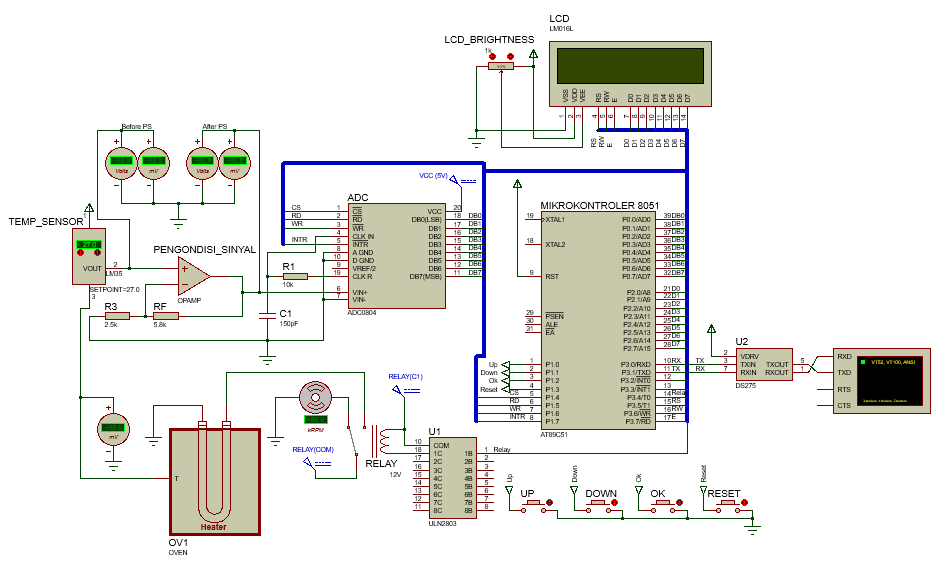
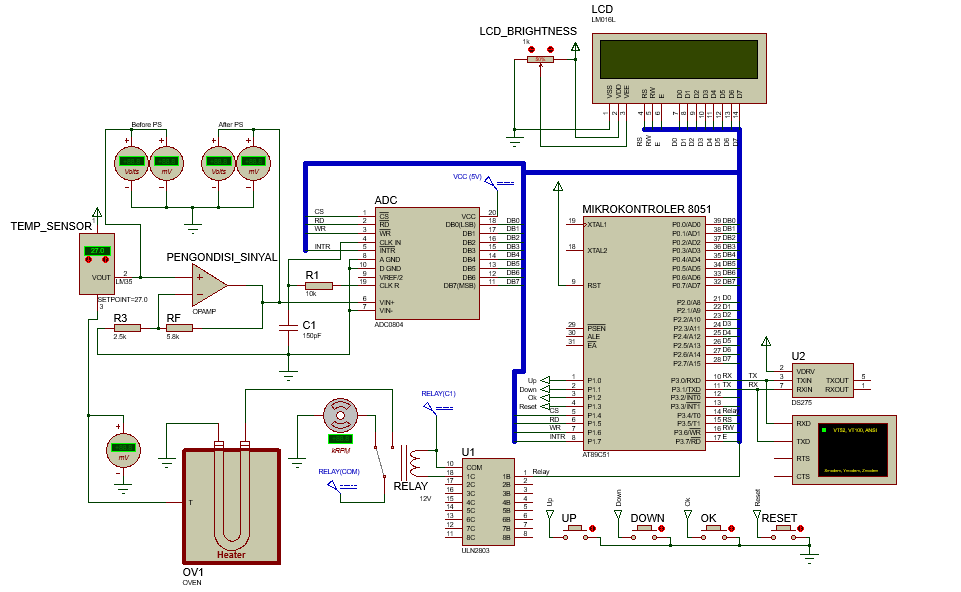
updated project to version 0.4
added serial comm via hyperterminal
reworked delay subroutine
updated screenshot and readme

Changed region(s): [[0.0, 0.0, 1.0, 0.9912], [0.1835, 0.6908, 0.2141, 0.7208]]

diff --git a/README.md b/README.md
@@ -1,9 +1,25 @@
 # fu-project-smd
 Tugas Mata Kuliah Sistem Mikroprosesor Digital Fisika Unpad 2015
 
+## Deskripsi
+Sistem pengontrolan suhu pada plant berbasis microcontroler AT89C51.  
+
+Input: 
+* Temperatur dari sensor LM35
+* 4 PB (Up,Down,Ok,Reset) untuk mengatur setting value dari suhu plant
+
+Output:
+* LCD 16x2
+* Hyperterminal
+* Virtual Com RS232
+* Heater (Oven)
+* Motor (Fan)
+
 Source code : `ProjectSMD.asm`
 
 Proteus File : `Project_SMD.pdsprj`
+
+Current Version : 0.4
 
 ### WORK IN PROGRESS !
 ##### Done
@@ -13,14 +29,15 @@ Proteus File : `Project_SMD.pdsprj`
 4. ADC data conversion to LCD
 5. Temperature display on LCD
 6. heater logic (plant), present value and setting value
+7. Serial communication to hyperterminal
 
 ##### To do
-1. Serial Communication via RS232
+1. Serial Communication via RS232 to virtual com
+2. save data from virtual com to excel
 2. System Integration
 
 ## Alur Kerja Sistem
-Sensor Suhu --> ADC 0804 --> Mikrokontroler AT89C51 --> LCD & RS232
-
+Sensor Suhu --> ADC 0804 --> Mikrokontroler AT89C51 --> LCD & RS232  
 ^-- Heater <-- Relay <-- PB Kontrol <-'   
 
 ## Screenshot
@@ -36,5 +53,6 @@ Saat Running:
 * [CSCI 305/306 (ECE 325/326) - Lab #7: LCD Display and Displaying Numbers](http://mathcs.slu.edu/~fritts/csci305/labs/lab7.html)
 * [LCD Interface with 8051](http://ramoliyabiren.blogspot.co.id/2011/12/lcd-16x2-interface-with-8051.html)
 * [LCD Tutorial for interfacing with Microcontrollers](http://www.8051projects.net/lcd-interfacing/index.php)
+
 #### Misc
 * [If-Else Assembly Gist](https://gist.github.com/kingster/1234734)
